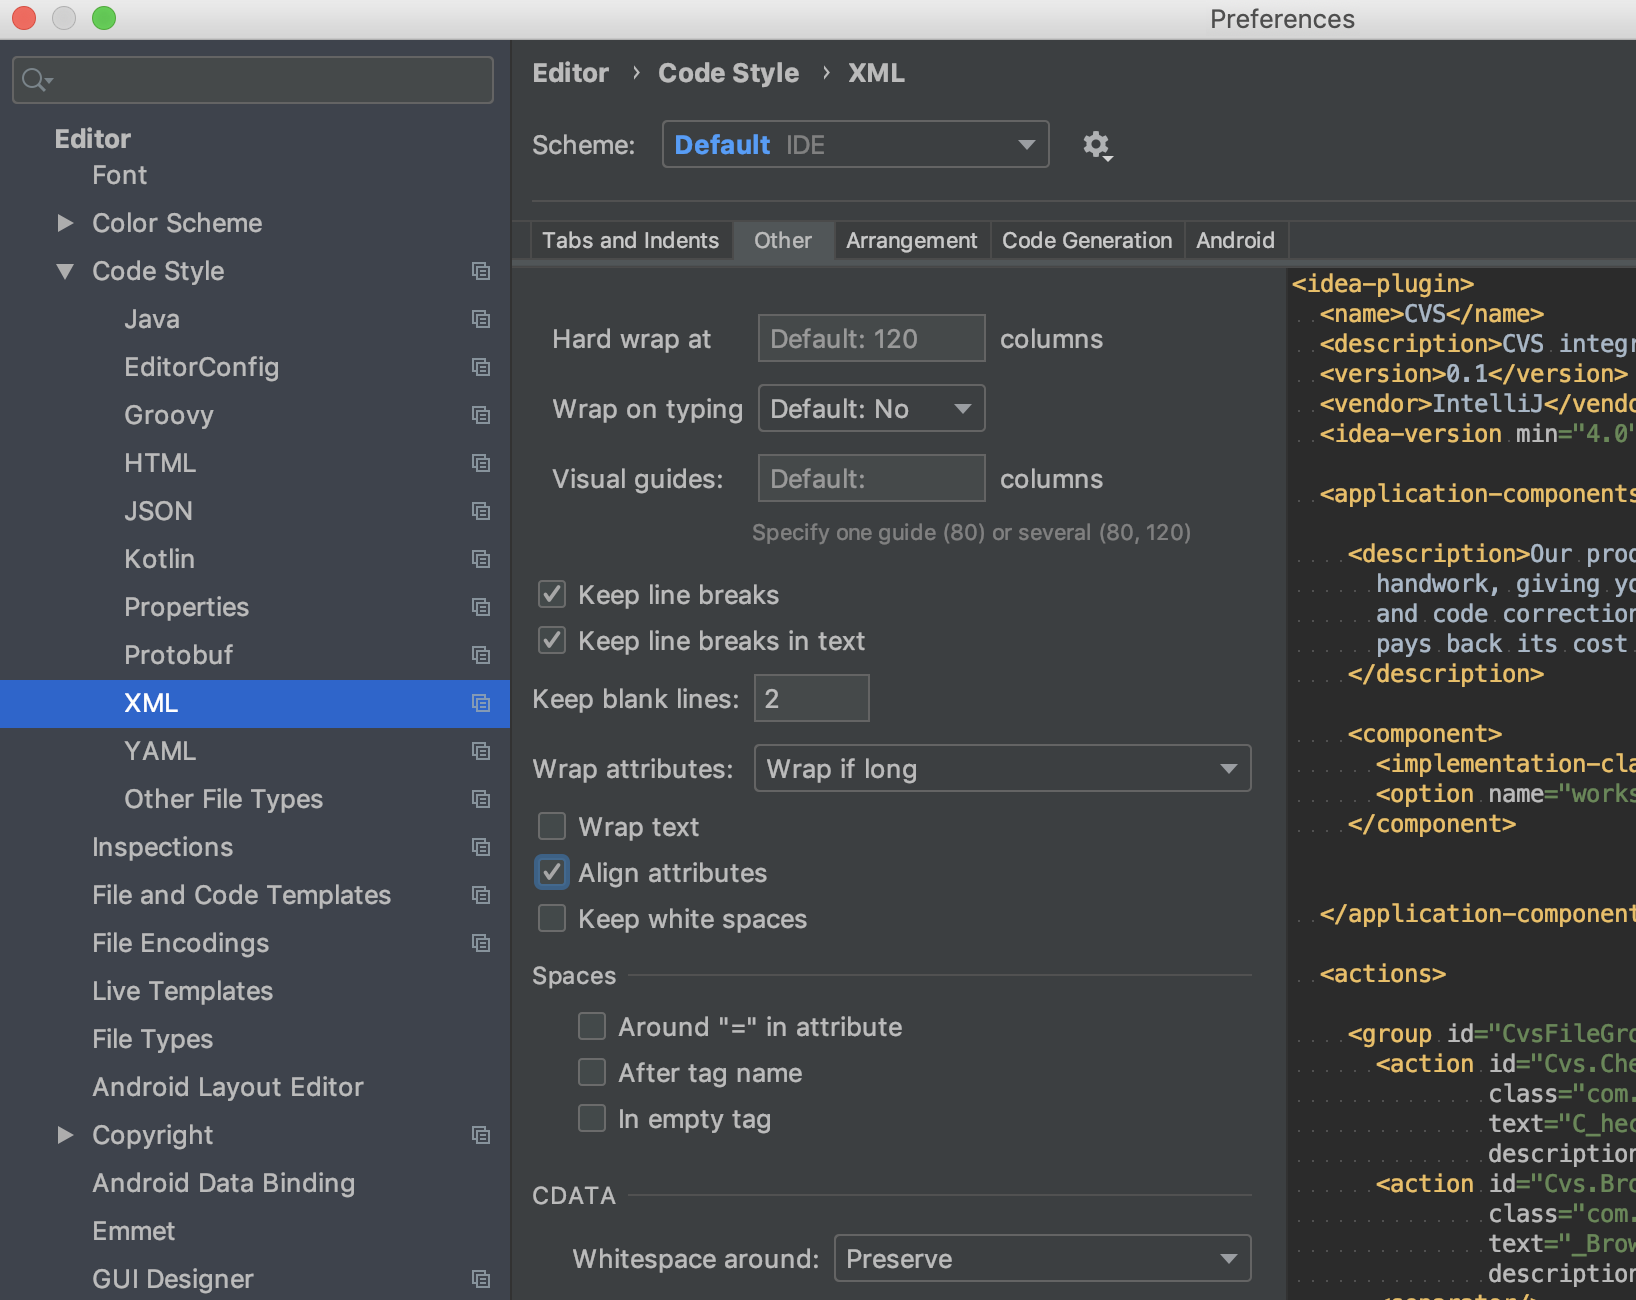
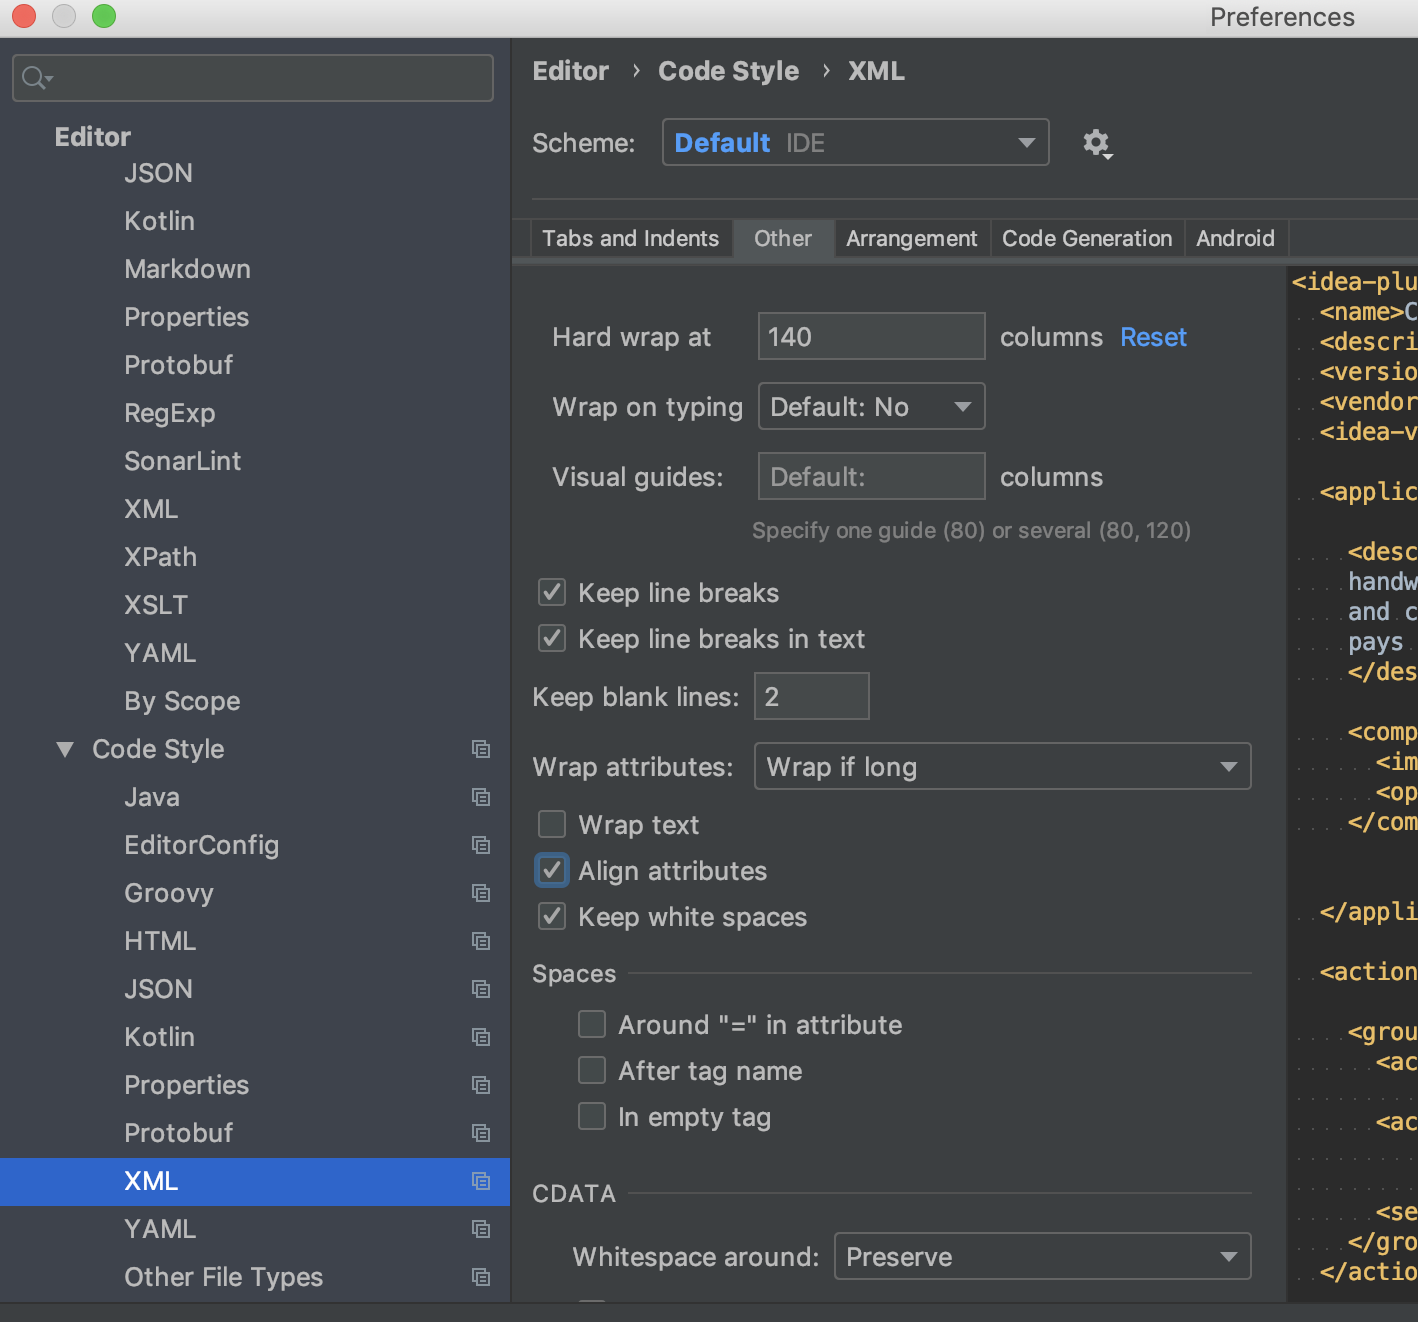
Review changes

diff --git a/README.md b/README.md
@@ -106,8 +106,10 @@ Go to `Preferences > Editor > Code Style > XML > Tabs and Indents` and update:
 
 ![Intellij XML code style other](/intellij/intellij-xml-indents.png)
 
-Then go to `Preferences > Editor > Code Style > XML > Other` and check:
+Then go to `Preferences > Editor > Code Style > XML > Other` and set/check:
+* `Hard wrap at 140`
 * `Keep line breaks in text`
+* `Keep white spaces`
 
 ![Intellij XML code style other](/intellij/intellij-xml-other.png)
 
